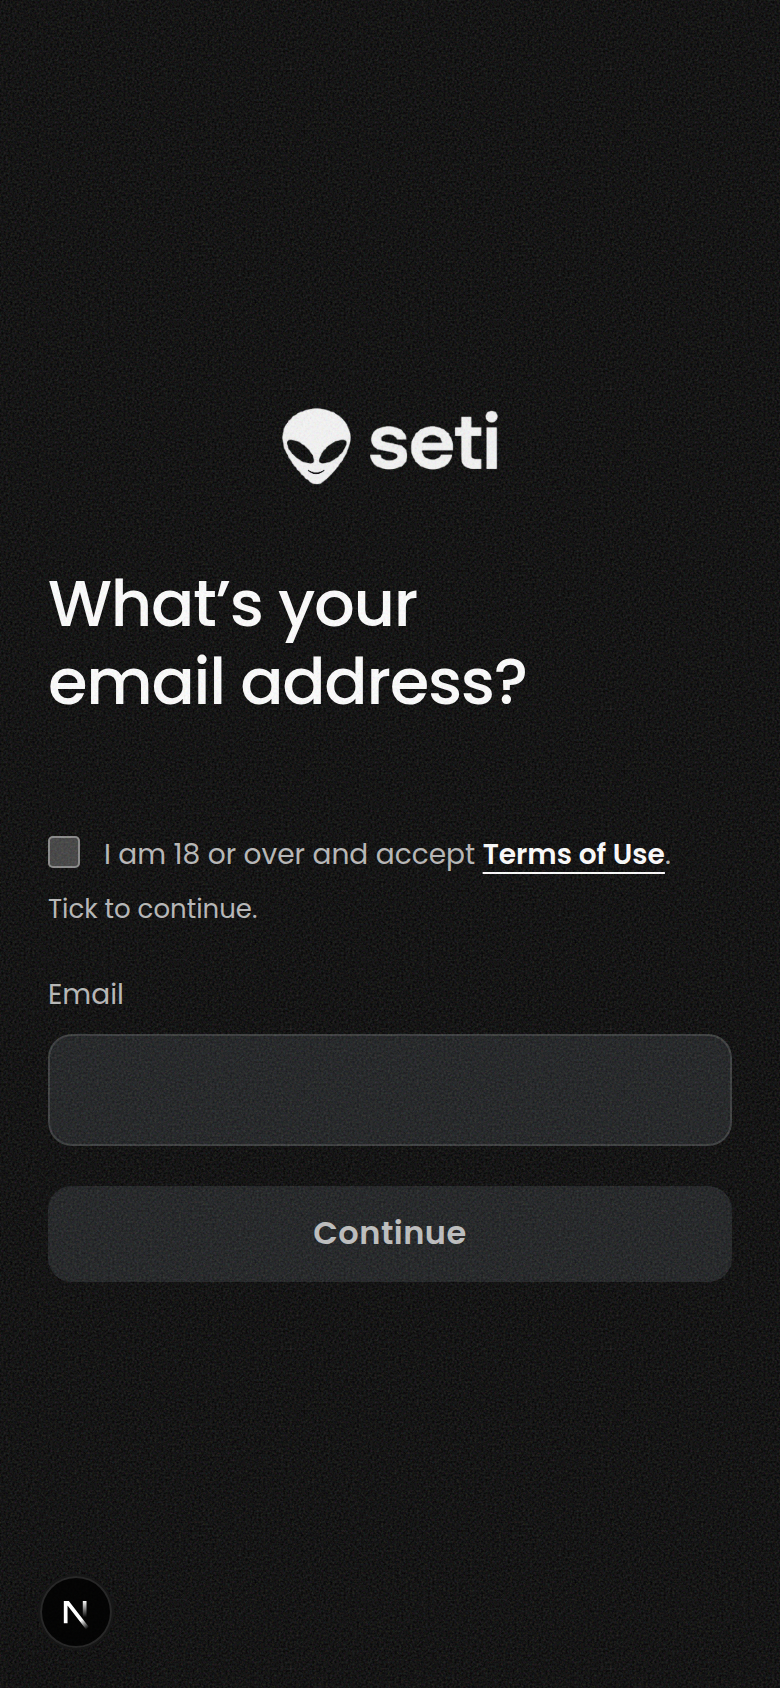
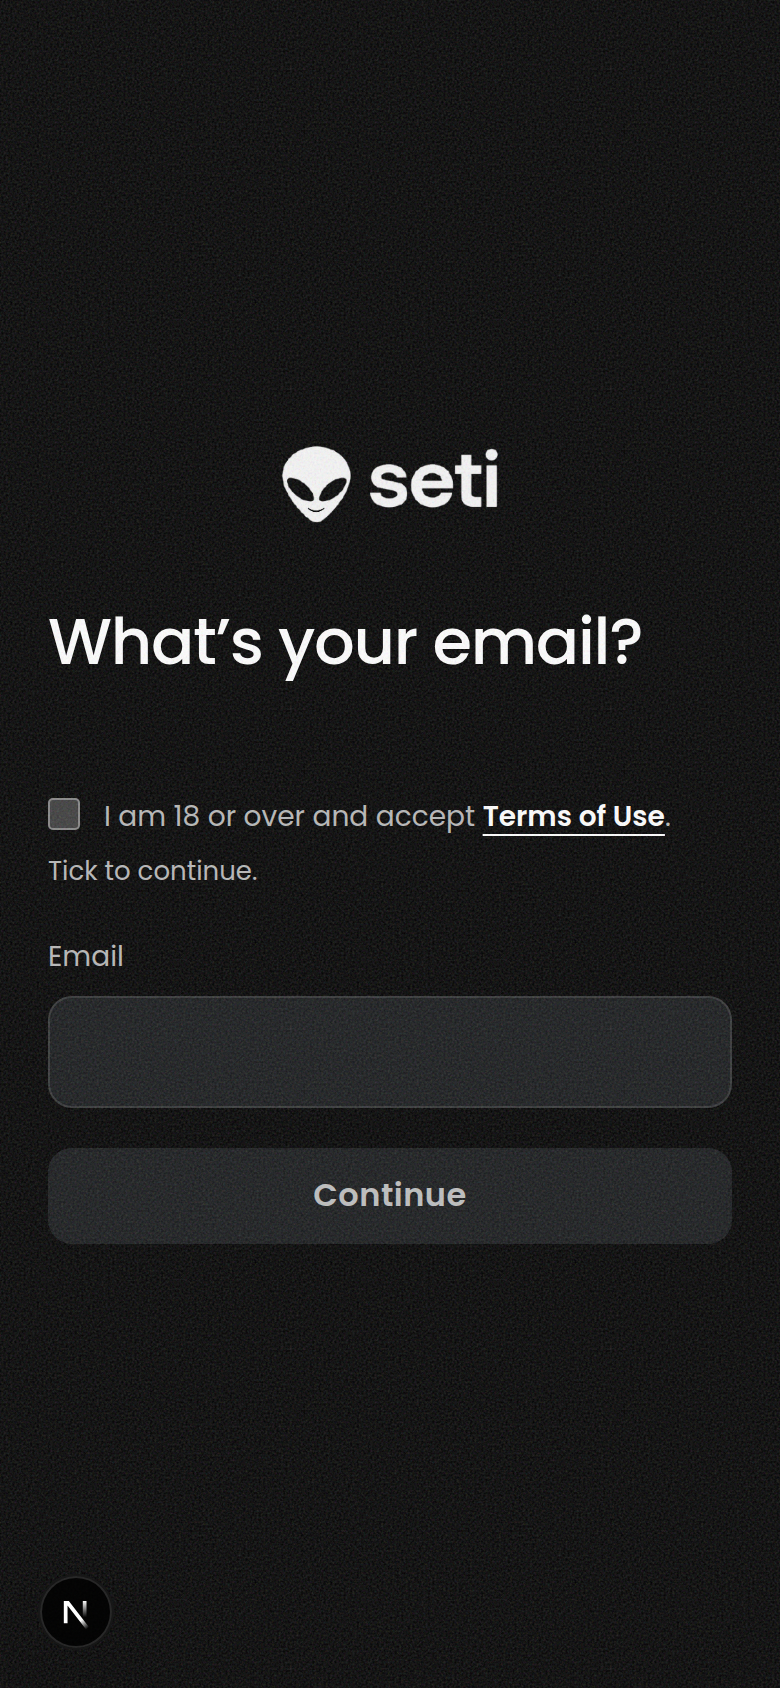
fix(signin): the heading fits on one line
'What's your email address?' measures 448px at heading-lg in the 342px column
the phone gives it, so it wrapped and ended on the single short word 'email'.
Shrinking the size does not fix it (26px still measures 364px) and widening
the column would break the form's measure, so the sentence is the thing that
gives: 'What's your email?' is 309px, one line at both widths, and the field
below is still labelled Email (#567).

Measured with the heading's own font at 390 and 1440; getClientRects is 1 at
both.

diff --git a/web/components/signin/SignInScreen.constants.ts b/web/components/signin/SignInScreen.constants.ts
@@ -27,12 +27,14 @@ export const SIGN_IN_COPY = {
   /**
    * The page's heading: the QUESTION the field answers (#567).
    *
-   * It is `Linear`'s own words for this screen, and the reference set is unanimous that the title
-   * is a question or an instruction rather than the route's name: `What is your Email Address?`,
-   * `Sign up with email.`, `Enter your email address to continue`. `Sign in` said nothing the field
-   * did not; this says what to type.
+   * It is `Linear`'s question, shortened (#567 follow-up). The reference set is unanimous that the
+   * title is a question or an instruction rather than the route's name, and `What’s your email
+   * address?` is Linear's own sentence — but at `heading-lg` (32px) in a 342px column it measures
+   * 448px and wraps to two lines, ending on the one short word `email`. `What’s your email?` measures
+   * 309px: one line, same size, same column, and the field below is still labelled Email, so nothing
+   * is lost by dropping `address`. Measured with the heading's own font, not estimated.
    */
-  pageTitle: 'What’s your email address?',
+  pageTitle: 'What’s your email?',
   emailLabel: 'Email',
   submit: 'Continue',
 } as const;
